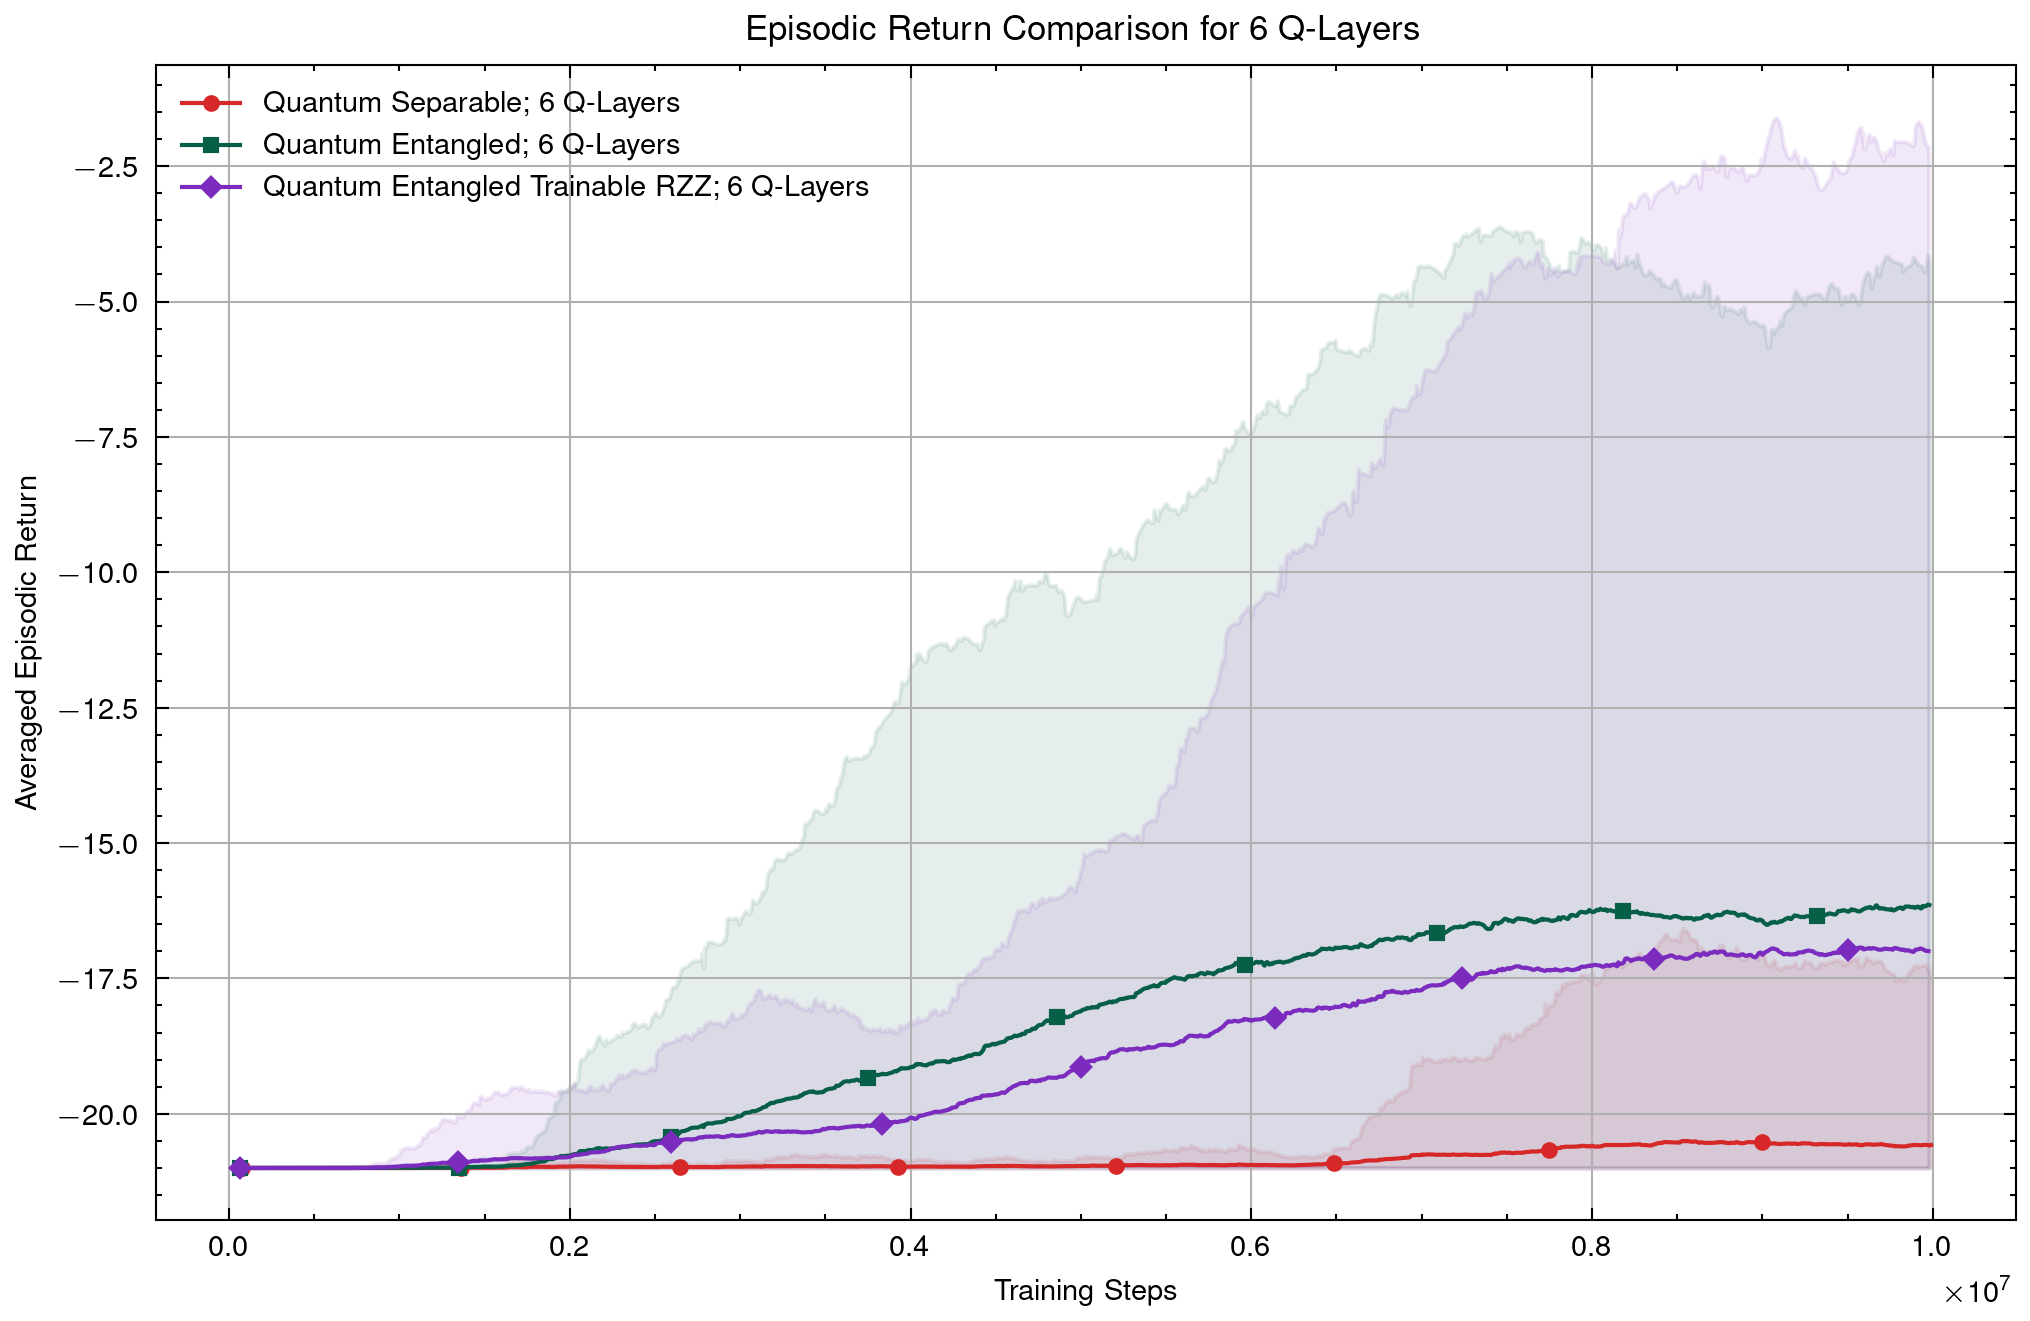
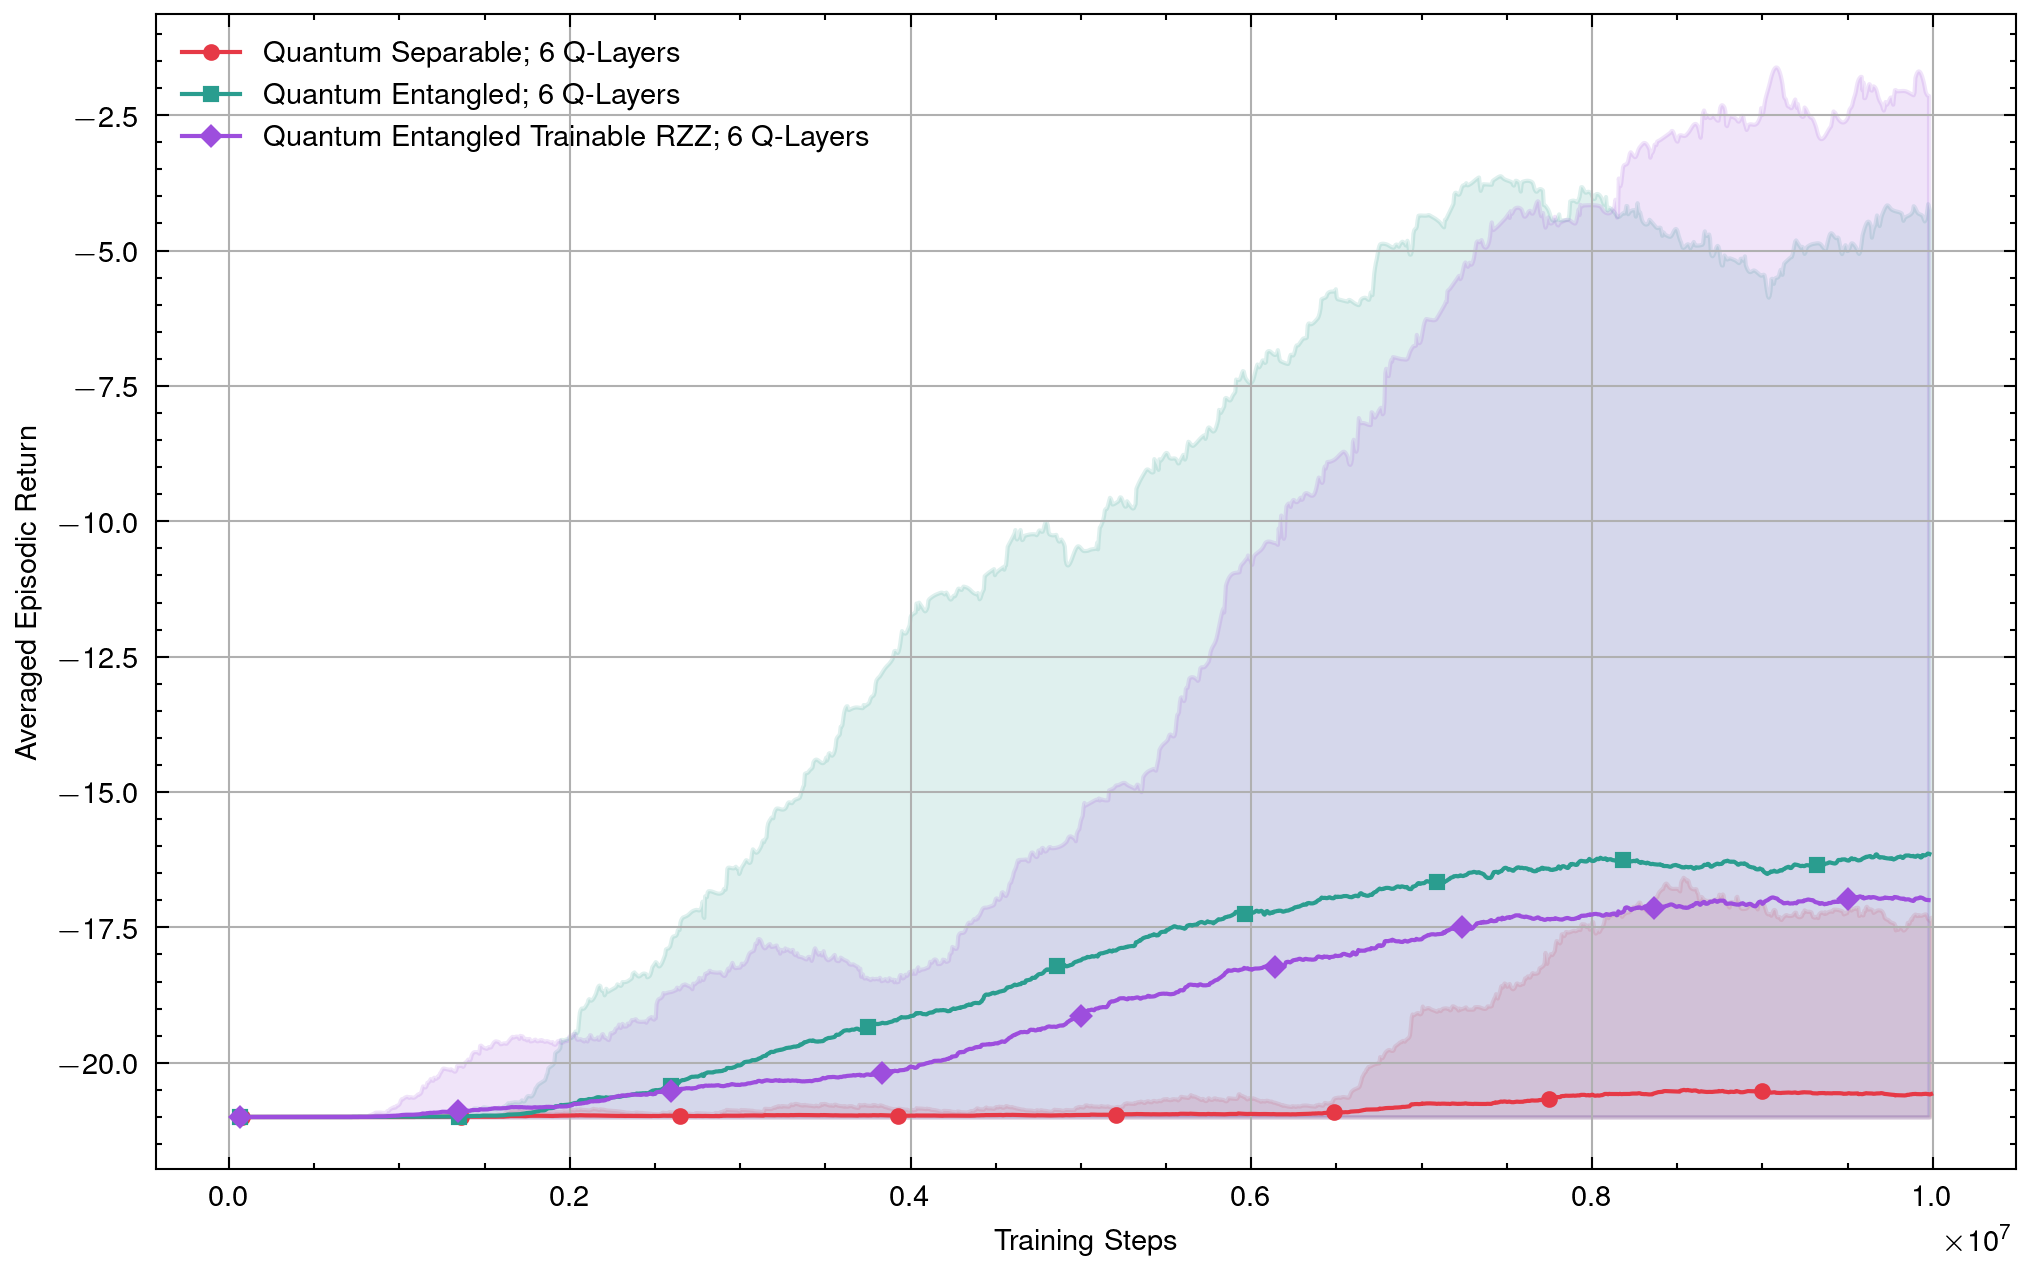
Update plot colors and transparency for improved visualization

diff --git a/generate_plots.py b/generate_plots.py
@@ -144,11 +144,9 @@ def minmax_across_runs(dfs, span=50):
 if __name__ == "__main__":
     # Color palette
     # Classical baseline: Black-dashed
-    CLASSICAL_COLOR = 'black'
-    SEPARABLE_COLOR = sns.color_palette(["#F94144", "#F3722C", "#F8961E", "#F9844A", "#E76F51", "#D62828"])
-    ENTANGLED_COLOR = sns.color_palette(["#84CC16", "#16A34A", "#059669", "#0EA5A8", "#2DD4BF", "#065F46"])
-    ENTANGLED_TRAINABLE_RZZ_COLOR = sns.color_palette(["#3A86FF", "#0077B6", "#00B4D8", "#4361EE", "#4C1D95", "#7B2CBF"])
-    SHADE_ALPHA = 0.1
+    CLASSICAL_COLOR = 'gray'
+    SIX_DIFFERNT_COLORS = sns.color_palette(["#E63946", "#F4A261", "#2A9D8F", "#1D3557", "#9D4EDD", "#06D6A0"])
+    SHADE_ALPHA = 0.15
     # line markers
     # layer markers
     LAYER_MARKERS = ['o', 's', 'D', '^', 'v', '+']
@@ -170,9 +168,9 @@ if __name__ == "__main__":
     for idx, (n_layers, files) in enumerate(dfs.items()):
         run_dfs = [select_step_value(load_csv_as_df(f), '0-Episodic-Stats/episodic_return') for f in files]
         df_mean = mean_across_runs(run_dfs, span=EMA_SPAN)
-        plt.plot(df_mean['step'], df_mean['value'], label=f'Quantum Separable; {n_layers} Q-Layers', color=SEPARABLE_COLOR[idx], marker = LAYER_MARKERS[idx], markevery=0.1)
+        plt.plot(df_mean['step'], df_mean['value'], label=f'Quantum Separable; {n_layers} Q-Layers', color=SIX_DIFFERNT_COLORS[idx], marker = LAYER_MARKERS[idx], markevery=0.1)
         df_minmax = minmax_across_runs(run_dfs, span=EMA_SPAN)
-        plt.fill_between(df_minmax['step'], df_minmax['min'], df_minmax['max'], alpha=SHADE_ALPHA, color=SEPARABLE_COLOR[idx])
+        plt.fill_between(df_minmax['step'], df_minmax['min'], df_minmax['max'], alpha=SHADE_ALPHA, color=SIX_DIFFERNT_COLORS[idx])
     # Classical baseline with 64 parameters
     files = res_groups['classical_64']
     run_dfs = [select_step_value(load_csv_as_df(f), '0-Episodic-Stats/episodic_return') for f in files]
@@ -182,7 +180,7 @@ if __name__ == "__main__":
     plt.plot(df_mean['step'], df_mean['value'], label='Classical Baseline 64 Params', linestyle='--', color=CLASSICAL_COLOR, marker=MODEL_MARKERS['classical_64'], markevery=0.1)
     plt.xlabel('Training Steps')
     plt.ylabel('Averaged Episodic Return')
-    plt.title('Episodic Return: Quantum Separable vs Classical Baseline (64 Params)')
+    # plt.title('Episodic Return: Quantum Separable vs Classical Baseline (64 Params)')
     plt.legend()
     plt.grid(True)
     plt.savefig(PLOTS_FOLDER / 'episodic_return_quantum_separable_vs_classical_64.png', dpi=FIG_DPI)
@@ -196,9 +194,9 @@ if __name__ == "__main__":
     for idx, (n_layers, files) in enumerate(dfs.items()):
         run_dfs = [select_step_value(load_csv_as_df(f), '0-Episodic-Stats/episodic_return') for f in files]
         df_mean = mean_across_runs(run_dfs, span=EMA_SPAN)
-        plt.plot(df_mean['step'], df_mean['value'], label=f'Quantum Entangled; {n_layers} Q-Layers', color=ENTANGLED_COLOR[idx], marker = LAYER_MARKERS[idx], markevery=0.1)
+        plt.plot(df_mean['step'], df_mean['value'], label=f'Quantum Entangled; {n_layers} Q-Layers', color=SIX_DIFFERNT_COLORS[idx], marker = LAYER_MARKERS[idx], markevery=0.1)
         df_minmax = minmax_across_runs(run_dfs, span=EMA_SPAN)
-        plt.fill_between(df_minmax['step'], df_minmax['min'], df_minmax['max'], alpha=SHADE_ALPHA, color=ENTANGLED_COLOR[idx])
+        plt.fill_between(df_minmax['step'], df_minmax['min'], df_minmax['max'], alpha=SHADE_ALPHA, color=SIX_DIFFERNT_COLORS[idx])
     # Classical baseline with 64 parameters
     files = res_groups['classical_64']
     run_dfs = [select_step_value(load_csv_as_df(f), '0-Episodic-Stats/episodic_return') for f in files]
@@ -208,7 +206,7 @@ if __name__ == "__main__":
     plt.plot(df_mean['step'], df_mean['value'], label='Classical Baseline 64 Params', linestyle='--', color=CLASSICAL_COLOR, marker=MODEL_MARKERS['classical_64'], markevery=0.1)
     plt.xlabel('Training Steps')
     plt.ylabel('Averaged Episodic Return')
-    plt.title('Episodic Return: Quantum Entangled vs Classical Baseline (64 Params)')
+    # plt.title('Episodic Return: Quantum Entangled vs Classical Baseline (64 Params)')
     plt.legend()
     plt.grid(True)
     plt.savefig(PLOTS_FOLDER / 'episodic_return_quantum_entangled_vs_classical_64.png', dpi=FIG_DPI)
@@ -222,9 +220,9 @@ if __name__ == "__main__":
     for idx, (n_layers, files) in enumerate(dfs.items()):
         run_dfs = [select_step_value(load_csv_as_df(f), '0-Episodic-Stats/episodic_return') for f in files]
         df_mean = mean_across_runs(run_dfs, span=EMA_SPAN)
-        plt.plot(df_mean['step'], df_mean['value'], label=f'Quantum Entangled Trainable RZZ; {n_layers} Q-Layers', color=ENTANGLED_TRAINABLE_RZZ_COLOR[idx], marker = LAYER_MARKERS[idx], markevery=0.1)
+        plt.plot(df_mean['step'], df_mean['value'], label=f'Quantum Entangled Trainable RZZ; {n_layers} Q-Layers', color=SIX_DIFFERNT_COLORS[idx], marker = LAYER_MARKERS[idx], markevery=0.1)
         df_minmax = minmax_across_runs(run_dfs, span=EMA_SPAN)
-        plt.fill_between(df_minmax['step'], df_minmax['min'], df_minmax['max'], alpha=SHADE_ALPHA, color=ENTANGLED_TRAINABLE_RZZ_COLOR[idx])
+        plt.fill_between(df_minmax['step'], df_minmax['min'], df_minmax['max'], alpha=SHADE_ALPHA, color=SIX_DIFFERNT_COLORS[idx])
     # Classical baseline with 64 parameters
     files = res_groups['classical_64']
     run_dfs = [select_step_value(load_csv_as_df(f), '0-Episodic-Stats/episodic_return') for f in files]
@@ -234,7 +232,7 @@ if __name__ == "__main__":
     plt.fill_between(df_minmax['step'], df_minmax['min'], df_minmax['max'], alpha=SHADE_ALPHA, color=CLASSICAL_COLOR)
     plt.xlabel('Training Steps')
     plt.ylabel('Averaged Episodic Return')
-    plt.title('Episodic Return: Quantum Entangled Trainable RZZ vs Classical Baseline (64 Params)')
+    # plt.title('Episodic Return: Quantum Entangled Trainable RZZ vs Classical Baseline (64 Params)')
     plt.legend()
     plt.grid(True)
     plt.savefig(PLOTS_FOLDER / 'episodic_return_quantum_entangled_trainable_rzz_vs_classical_64.png', dpi=FIG_DPI)
@@ -249,29 +247,29 @@ if __name__ == "__main__":
         if files:
             run_dfs = [select_step_value(load_csv_as_df(f), '0-Episodic-Stats/episodic_return') for f in files]
             df_mean = mean_across_runs(run_dfs, span=EMA_SPAN)
-            plt.plot(df_mean['step'], df_mean['value'], label=f'Quantum Separable; {n_layers} Q-Layers', color=SEPARABLE_COLOR[idx], marker=MODEL_MARKERS['quantum_separable'], markevery=0.1)
+            plt.plot(df_mean['step'], df_mean['value'], label=f'Quantum Separable; {n_layers} Q-Layers', color=SIX_DIFFERNT_COLORS[0], marker=MODEL_MARKERS['quantum_separable'], markevery=0.1)
             df_minmax = minmax_across_runs(run_dfs, span=EMA_SPAN)
-            plt.fill_between(df_minmax['step'], df_minmax['min'], df_minmax['max'], alpha=SHADE_ALPHA, color=SEPARABLE_COLOR[idx])
+            plt.fill_between(df_minmax['step'], df_minmax['min'], df_minmax['max'], alpha=SHADE_ALPHA, color=SIX_DIFFERNT_COLORS[0])
         # Entangled model
         files = res_groups['quantum_entangled'].get(n_layers, [])
         if files:
             run_dfs = [select_step_value(load_csv_as_df(f), '0-Episodic-Stats/episodic_return') for f in files]
             df_mean = mean_across_runs(run_dfs, span=EMA_SPAN)
-            plt.plot(df_mean['step'], df_mean['value'], label=f'Quantum Entangled; {n_layers} Q-Layers', color=ENTANGLED_COLOR[idx], marker=MODEL_MARKERS['quantum_entangled'], markevery=0.1)
+            plt.plot(df_mean['step'], df_mean['value'], label=f'Quantum Entangled; {n_layers} Q-Layers', color=SIX_DIFFERNT_COLORS[2], marker=MODEL_MARKERS['quantum_entangled'], markevery=0.1)
             df_minmax = minmax_across_runs(run_dfs, span=EMA_SPAN)
-            plt.fill_between(df_minmax['step'], df_minmax['min'], df_minmax['max'], alpha=SHADE_ALPHA, color=ENTANGLED_COLOR[idx])
+            plt.fill_between(df_minmax['step'], df_minmax['min'], df_minmax['max'], alpha=SHADE_ALPHA, color=SIX_DIFFERNT_COLORS[2])
         # Entangled trainable rzz model
         files = res_groups['quantum_entangled_trainable_rzz'].get(n_layers, [])
         if files:
             run_dfs = [select_step_value(load_csv_as_df(f), '0-Episodic-Stats/episodic_return') for f in files]
             df_mean = mean_across_runs(run_dfs, span=EMA_SPAN)
-            plt.plot(df_mean['step'], df_mean['value'], label=f'Quantum Entangled Trainable RZZ; {n_layers} Q-Layers', color=ENTANGLED_TRAINABLE_RZZ_COLOR[idx], marker=MODEL_MARKERS['quantum_entangled_trainable_rzz'], markevery=0.1)
+            plt.plot(df_mean['step'], df_mean['value'], label=f'Quantum Entangled Trainable RZZ; {n_layers} Q-Layers', color=SIX_DIFFERNT_COLORS[4], marker=MODEL_MARKERS['quantum_entangled_trainable_rzz'], markevery=0.1)
             df_minmax = minmax_across_runs(run_dfs, span=EMA_SPAN)
-            plt.fill_between(df_minmax['step'], df_minmax['min'], df_minmax['max'], alpha=SHADE_ALPHA, color=ENTANGLED_TRAINABLE_RZZ_COLOR[idx])
+            plt.fill_between(df_minmax['step'], df_minmax['min'], df_minmax['max'], alpha=SHADE_ALPHA, color=SIX_DIFFERNT_COLORS[4])
         plt.xlabel('Training Steps')
         plt.ylabel('Averaged Episodic Return')
         plt.legend()
-        plt.title(f'Episodic Return Comparison for {n_layers} Q-Layers')
+        # plt.title(f'Episodic Return Comparison for {n_layers} Q-Layers')
         plt.grid(True)
         plt.savefig(PLOTS_FOLDER / f'episodic_return_quantum_only_comparison_{n_layers}_layers.png', dpi=FIG_DPI)
         plt.close()
